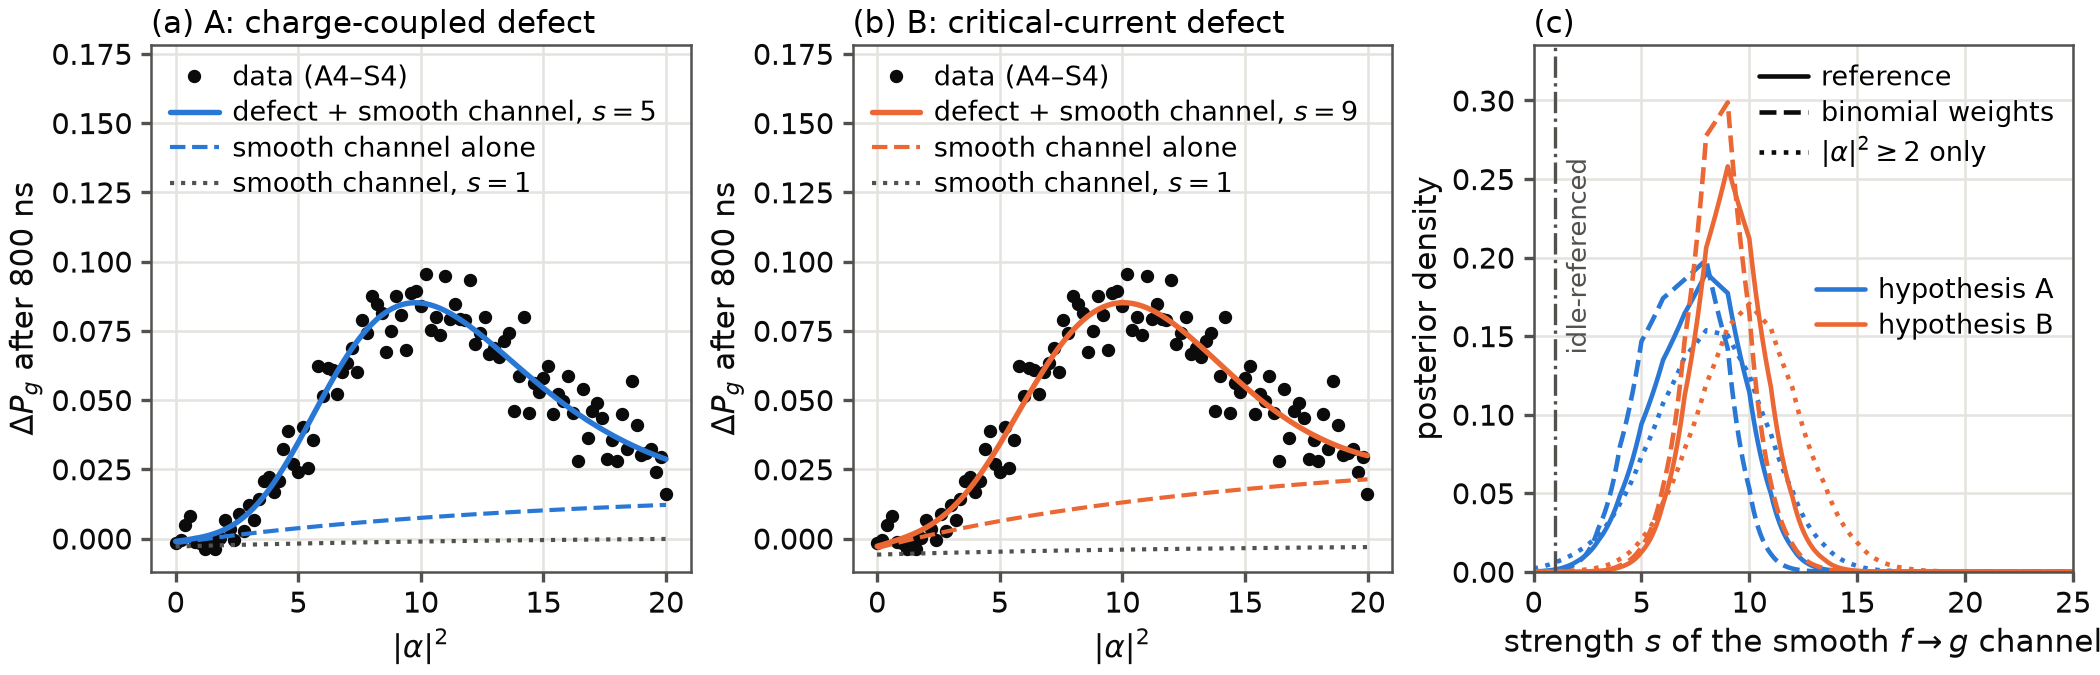
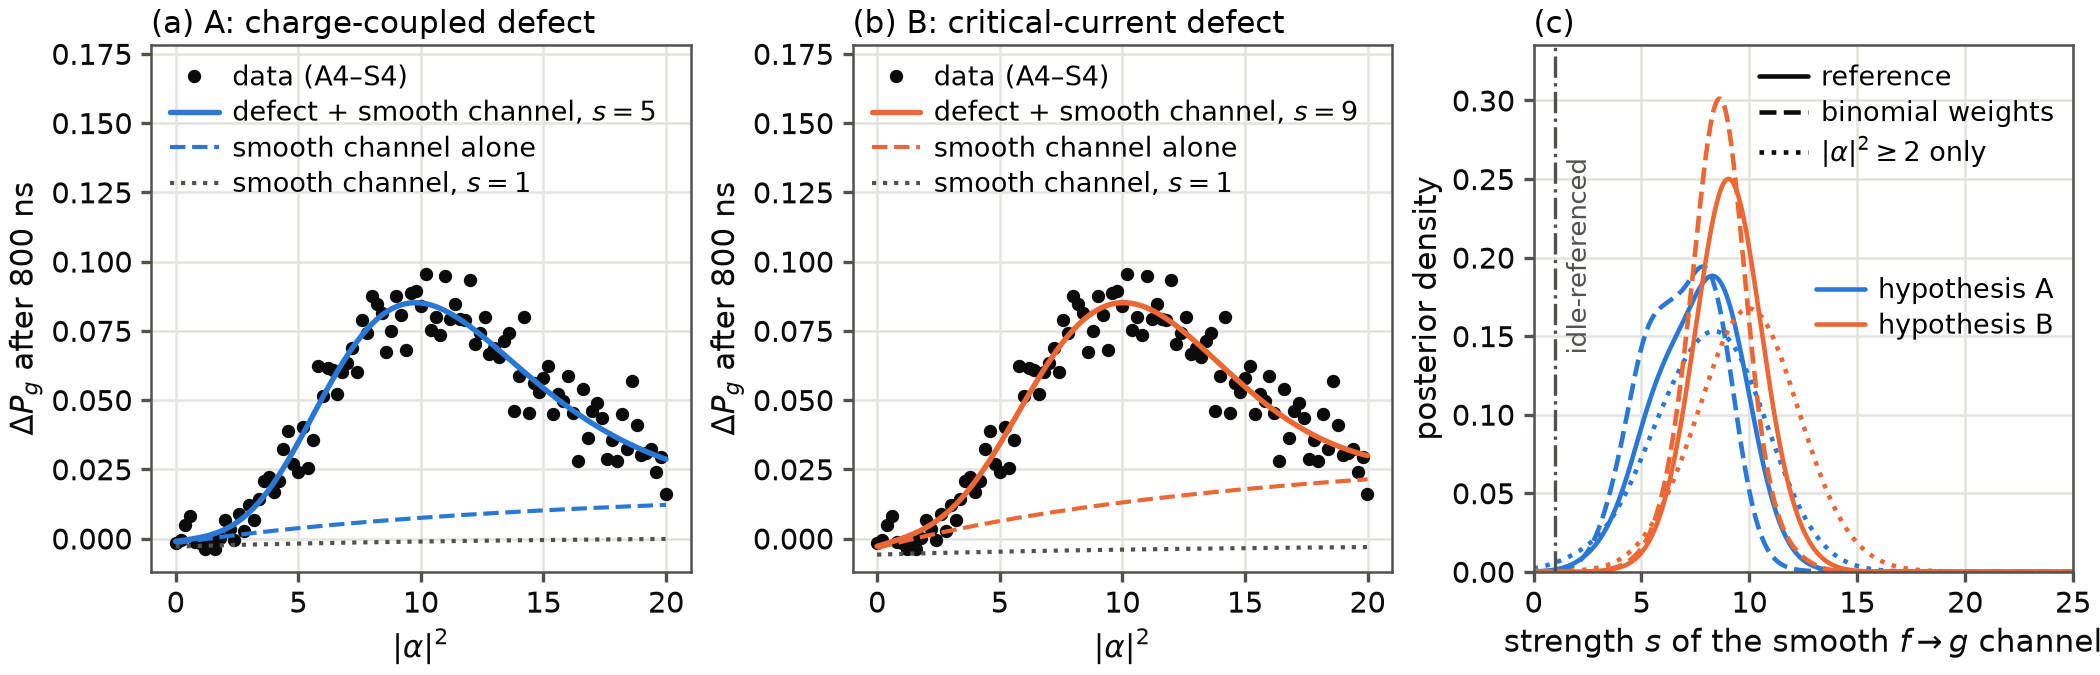
Fig. bayes: posterior of s drawn with a cubic spline
The log-marginal of s is known on the grid of s of the F9 fits (step 1 near
the peak); panel (c) is now drawn with a cubic spline of it instead of
log-linear segments. Display only: the s quantiles change by at most 0.02
and ln BF by at most 0.04. Figure regenerated.

Changed region(s): [[0.7738, 0.2178, 0.8976, 0.84], [0.8048, 0.1556, 0.8357, 0.1867], [0.7738, 0.6533, 0.8048, 0.6844]]

diff --git a/examples/prx_figures.py b/examples/prx_figures.py
@@ -40,6 +40,7 @@ import matplotlib as mpl
 import matplotlib.pyplot as plt
 import numpy as np
 from matplotlib.lines import Line2D
+from scipy.interpolate import CubicSpline
 
 from bosonoise.plotting import BLUE_ORDINAL, SERIES, TEXT_PRIMARY, TEXT_SECONDARY, ordinal_cmap, use_style
 
@@ -595,7 +596,9 @@ def f9_bayes():
             sv = smooth[k][vname]
             s_ = np.array(sv["s"])
             sf = np.linspace(0, s_[-1], 601)
-            lf = np.interp(sf, s_, sv["log_marginal_per_s"])
+            # the log-marginal is known on the grid of s (step 1 near the peak); a cubic spline draws it smoothly. Display
+            # only: the quantiles and Bayes factors in the text use log-linear interpolation, which differs by <= 0.04.
+            lf = CubicSpline(s_, sv["log_marginal_per_s"])(sf)
             p = np.exp(lf - lf.max())
             ax.plot(sf, p / (p.sum() * (sf[1] - sf[0])), ls, color=SERIES[j], lw=1.1)
     ax.axvline(1.0, color=TEXT_SECONDARY, lw=0.8, ls="-.")
